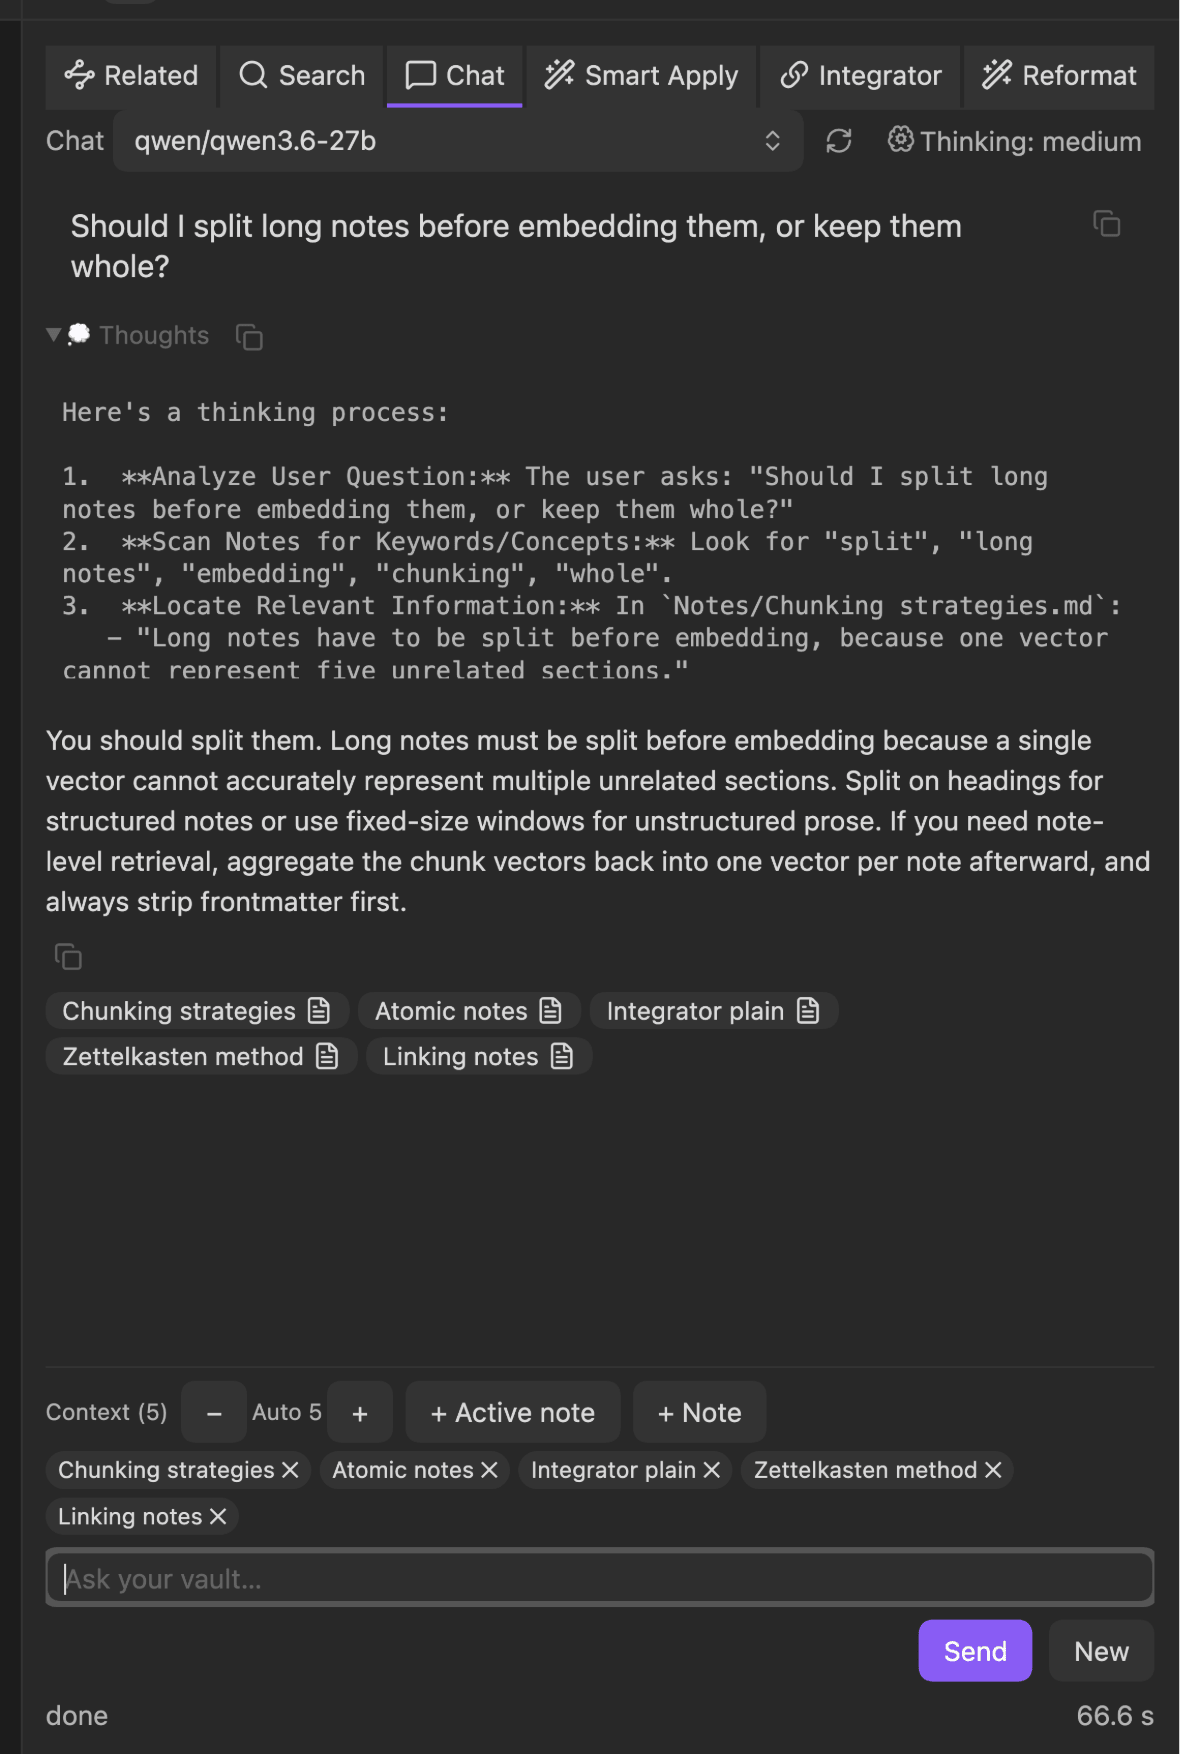
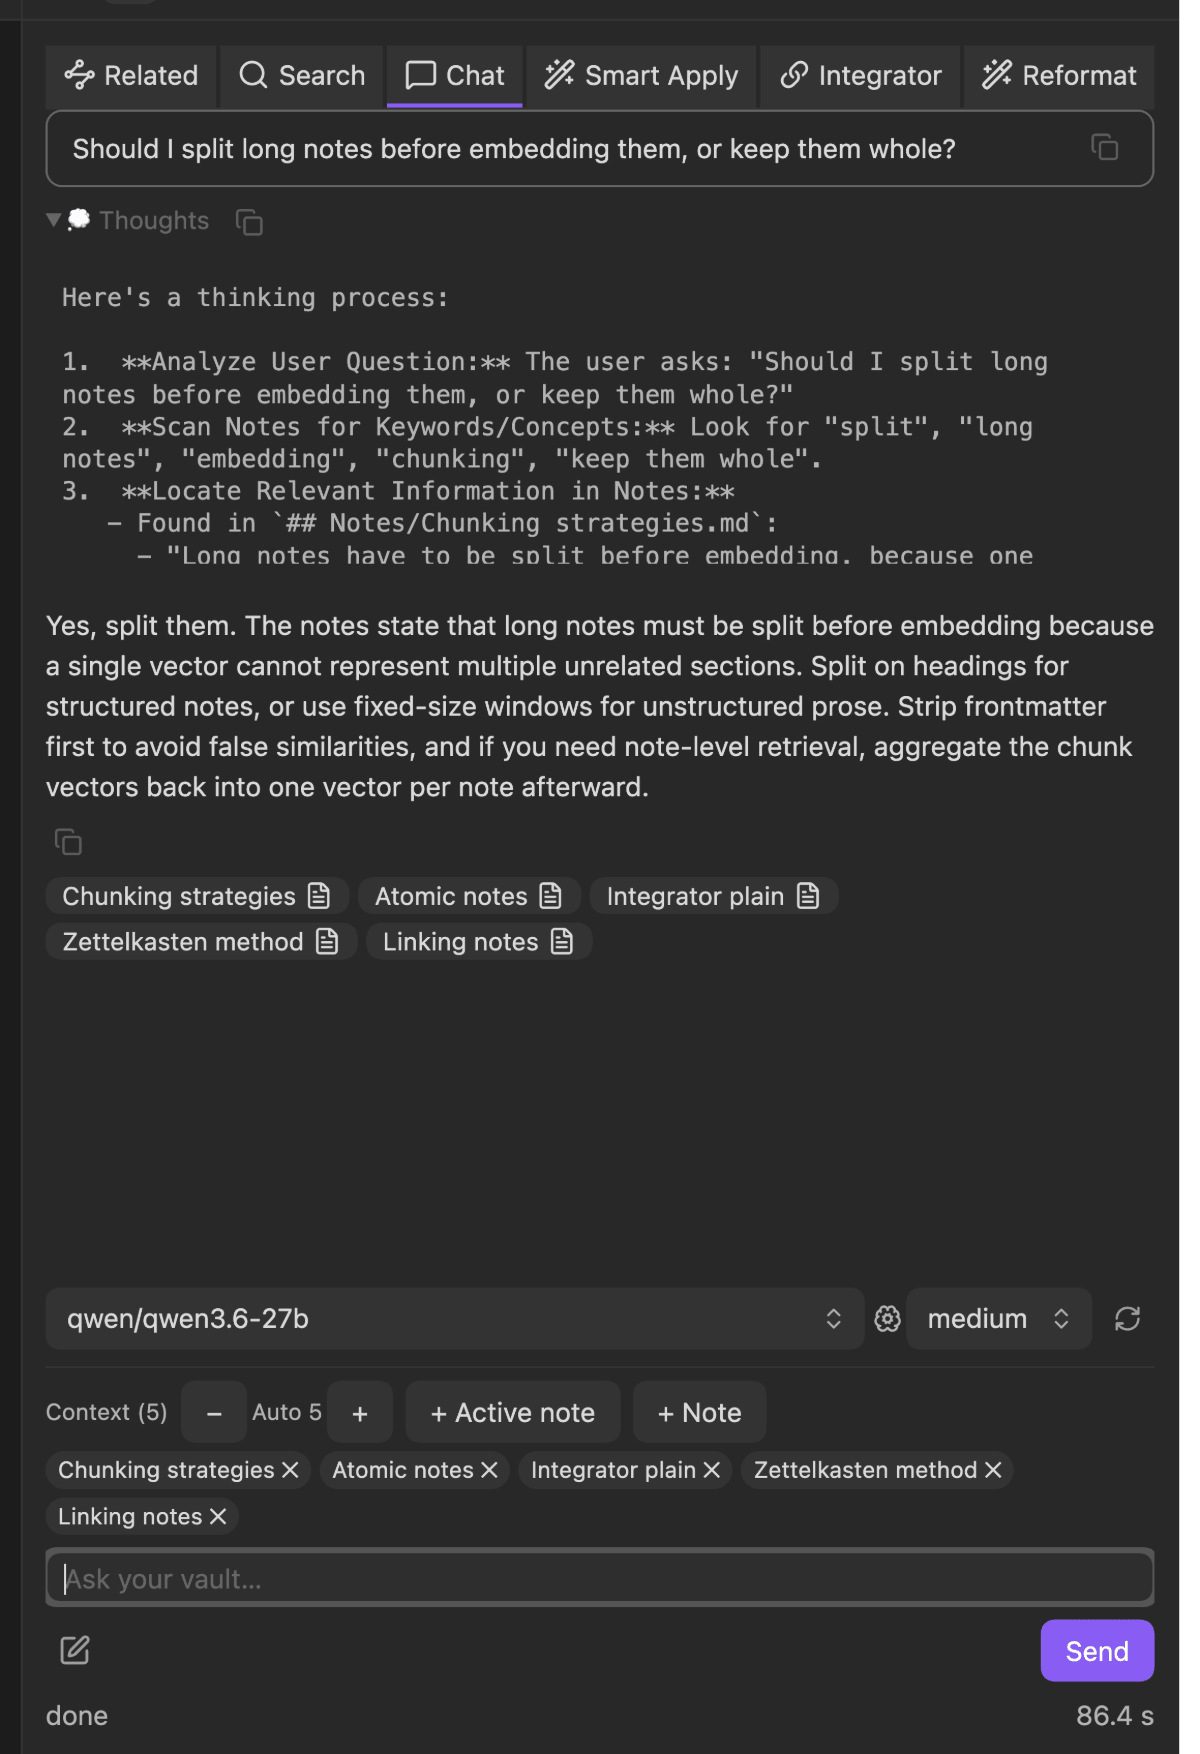
docs(images): chat.png mit niedrigerem Fenster (kein image-whitespace), thinking.png mit der neuen Chat-Zeile, Hinweis im CHANGELOG entfällt

diff --git a/scripts/shots.ts b/scripts/shots.ts
@@ -459,7 +459,8 @@ const SHOTS: Shot[] = [
   {
     name: "chat.png",
     klasse: "feature",
-    fensterHoehe: 720,
+    // Weniger Weissraum zwischen Quellen und Modellzeile (readme_lint: 32 % identische Zeilen bei 720, Grenze 25 %; gemessen Welle 29).
+    fensterHoehe: 600,
     async run(cdp) {
       if (!(await openExisting(cdp, HERO_NOTIZ, "preview"))) return null;
       await closeExtraLeaves(cdp);

diff --git a/docs/images/README.md b/docs/images/README.md
@@ -20,7 +20,7 @@ Bestand: was hier in Prosa steht, kann veralten, die Prüfung nicht.
 
 **2026-10-25 (Welle 27):** `integrator.png` neu aufgenommen (Fensterhöhe 620 statt 900: das alte Bild trug 38 % Weissraum, `readme_lint` meldete es als Warnung; das Rezept räumt vor der Aufnahme auch Meldungen weg). Offen und bewusst nicht neu aufgenommen: `chat.png` und `thinking.png` stammen aus Welle 26 (Kit 0.67.1) und zeigen die Frage noch in der alten Schrift und ohne Rand (Kit 0.70.0 ändert sie); der Inhalt stimmt, eine Neuaufnahme braucht die echten Modelle (RAM-Slot). Die Modellzeile im Umformatier-Tab hat kein README-Bild.
 
-**2026-11-01 (Welle 29, Kit 0.74.0): `chat.png` und `smart-apply.png` neu aufgenommen, `thinking.png` fehlt noch.** Aufnahme 14:04 bis 14:05 mit `qwen/qwen3.6-27b` (Denkstufe „off“, Auslieferungszustand), Obsidian 1.15.0, Index mit dem echten Embedding-Modell; beide Bilder zeigen die neue Chat-Zeile (Modellzeile einzeilig ohne Beschriftung unter der Antwort, Denk-Dropdown, Neu als Symbol, kein Verlauf-Knopf, weil die Aufbewahrung 0 ist). `thinking.png` zeigt noch den alten Kopf (zwei Zeilen, Denk-Knopf): der Lauf lieferte „kein Reasoning-Block“, weil die Denkstufe im Auslieferungszustand aus ist und das Plugin dann `none` sendet. Das Rezept stellt die Stufe für dieses Bild jetzt selbst auf „medium“ (Typprüfung grün, **noch nicht gelaufen**); es braucht eine zweite kurze Modell-Last, etwa zwei Minuten. `readme_lint` meldet für das neue `chat.png` `image-whitespace` (32 % statt höchstens 25 %): die Antwort des Modells war kurz, die Fläche zwischen Quellen und Modellzeile ist leer; bei der nächsten Last `fensterHoehe` von `chat.png` (heute 720) senken und es mit aufnehmen.
+**2026-11-01 (Welle 29, Kit 0.74.0): `chat.png`, `thinking.png` und `smart-apply.png` zeigen die neue Chat-Zeile.** Aufnahme in zwei Läufen mit `qwen/qwen3.6-27b`, Obsidian 1.15.0, Index mit dem echten Embedding-Modell: `chat.png` und `smart-apply.png` 14:04 bis 14:05, `chat.png` und `thinking.png` erneut 15:11 bis 15:14 (Modell danach entladen). Die Modellzeile steht einzeilig ohne Beschriftung (Modell, Denk-Dropdown, Neu als Symbol, kein Verlauf-Knopf, weil die Aufbewahrung 0 ist). `thinking.png` stellt die Denkstufe selbst auf „medium“ (im Auslieferungszustand ist sie aus, dann sendet das Plugin `none` und es gibt keinen Denkblock); das Bild zeigt die Zeile oberhalb des Kontexts, weil das Fenster dort höher als 640 px ist. `chat.png` ist mit `fensterHoehe` 600 aufgenommen (vorher 720: 32 % Weißraum, `image-whitespace`); unter 640 px greift der kompakte Composer des Kits, die Modellzeile steht dort unter dem Eingabefeld mit dem Neu-Symbol links. `npm run shots:check` meldet keine Befunde.
 
 ## Die Bilder
 

diff --git a/CHANGELOG.md b/CHANGELOG.md
@@ -22,7 +22,7 @@ All notable changes to this project are documented here. The format follows
 
 ### Documentation
 
-- **README images:** `chat.png` and `smart-apply.png` show the new chat line (model row below the answer, thinking dropdown, New as an icon). **`thinking.png` still shows the old two-line head and is re-recorded before the release** (it needs a short second model run; remove this line when it is done).
+- **README images:** `chat.png`, `thinking.png` and `smart-apply.png` show the new chat line (model row, thinking dropdown, New as an icon).
 
 ### Removed
 
